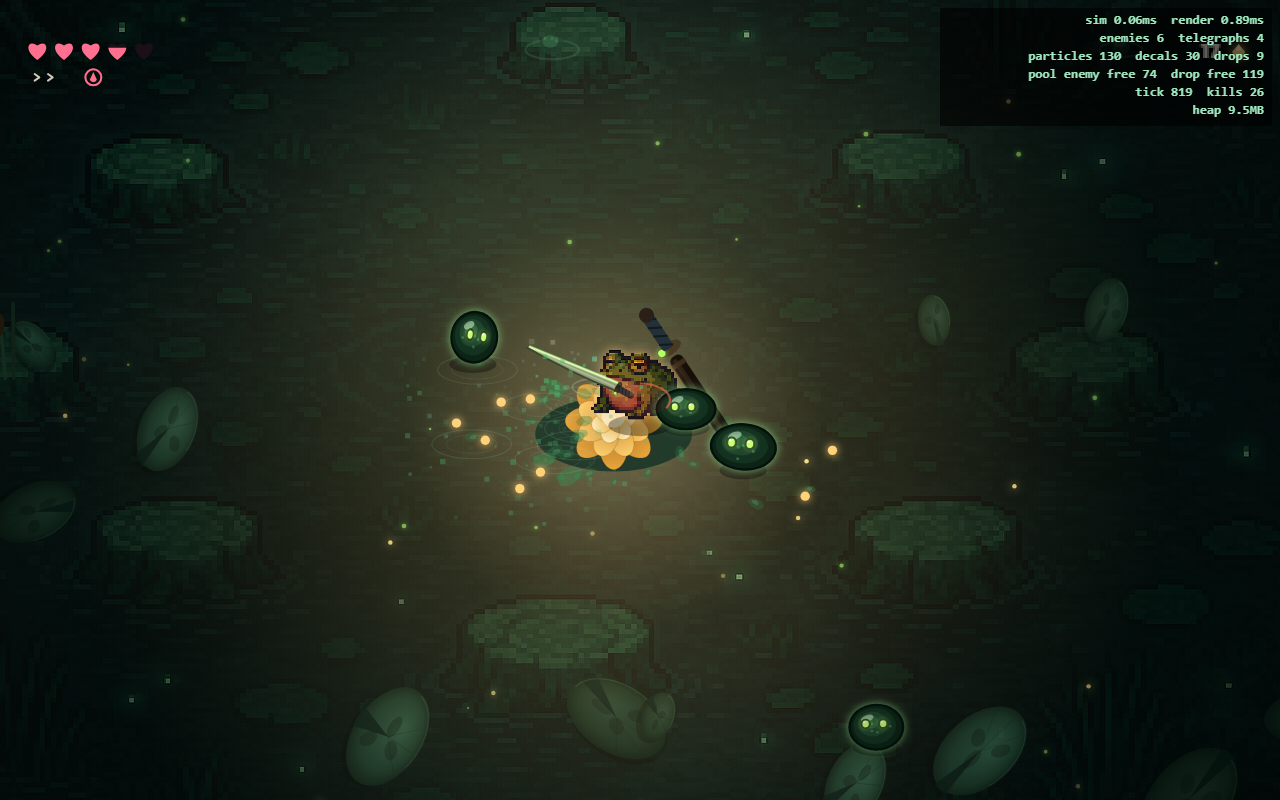
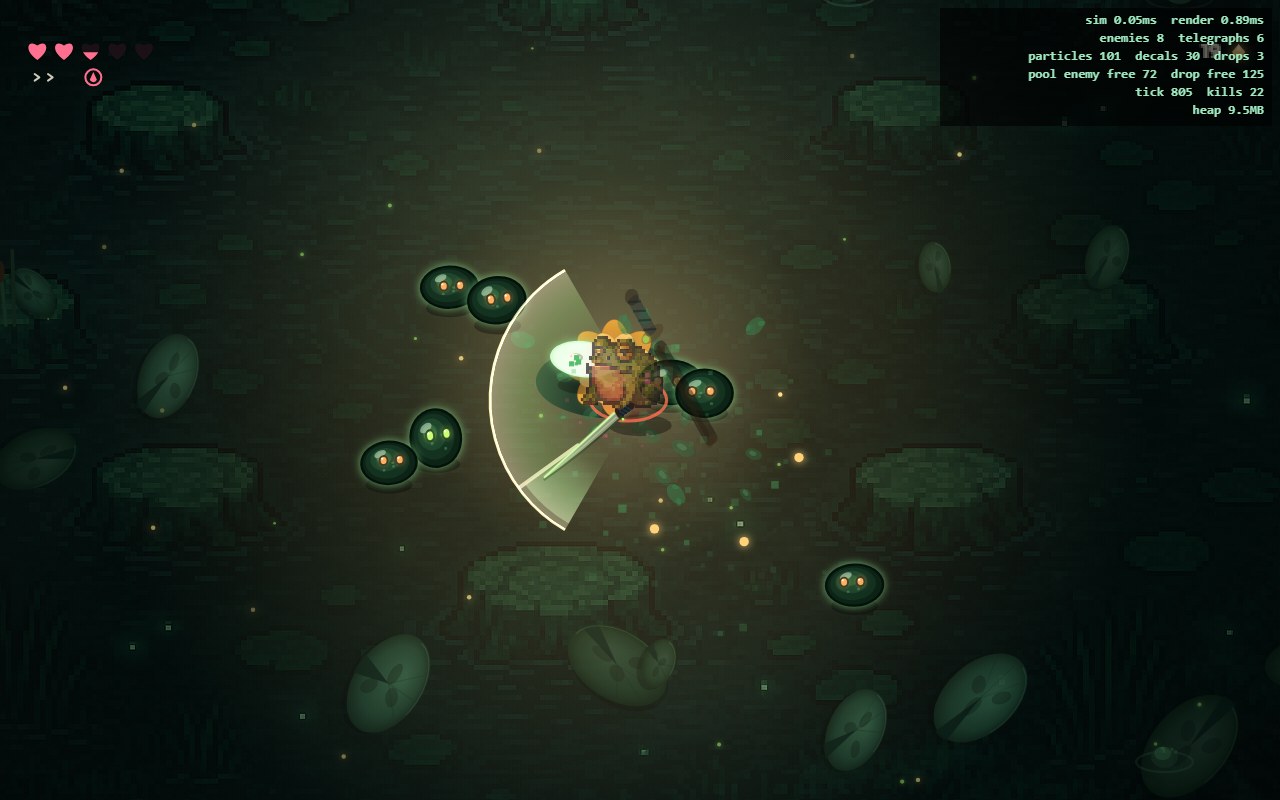
R8: mixed enemy eye colors (~28% amber) for swarm variety + REF_02 faithfulness

diff --git a/src/render/render.ts b/src/render/render.ts
@@ -971,7 +971,8 @@ function drawSlime(ctx: CanvasRenderingContext2D, e: Enemy, r: number, time: num
   const look = e.facing;
   const lx = Math.cos(look) * r * 0.12, ly = Math.sin(look) * r * 0.08;
   const es = (e.kind === 'gloopa' ? 0.22 : e.kind === 'spikeblob' ? 0.19 : 0.18) * r;
-  const iris = warm ? '#ffb060' : '#c9ff72';
+  const warmEye = ((e.seed * 0.379) % 1) < 0.28;    // ~28% amber-eyed (REF_02 swarm has mixed eyes)
+  const iris = (warm || warmEye) ? '#ffb060' : '#c9ff72';
   for (const side of [-1, 1]) {
     const ox = side * r * 0.33 + lx, oy = -r * 0.1 + ly;
     ctx.fillStyle = '#0c1f13';
